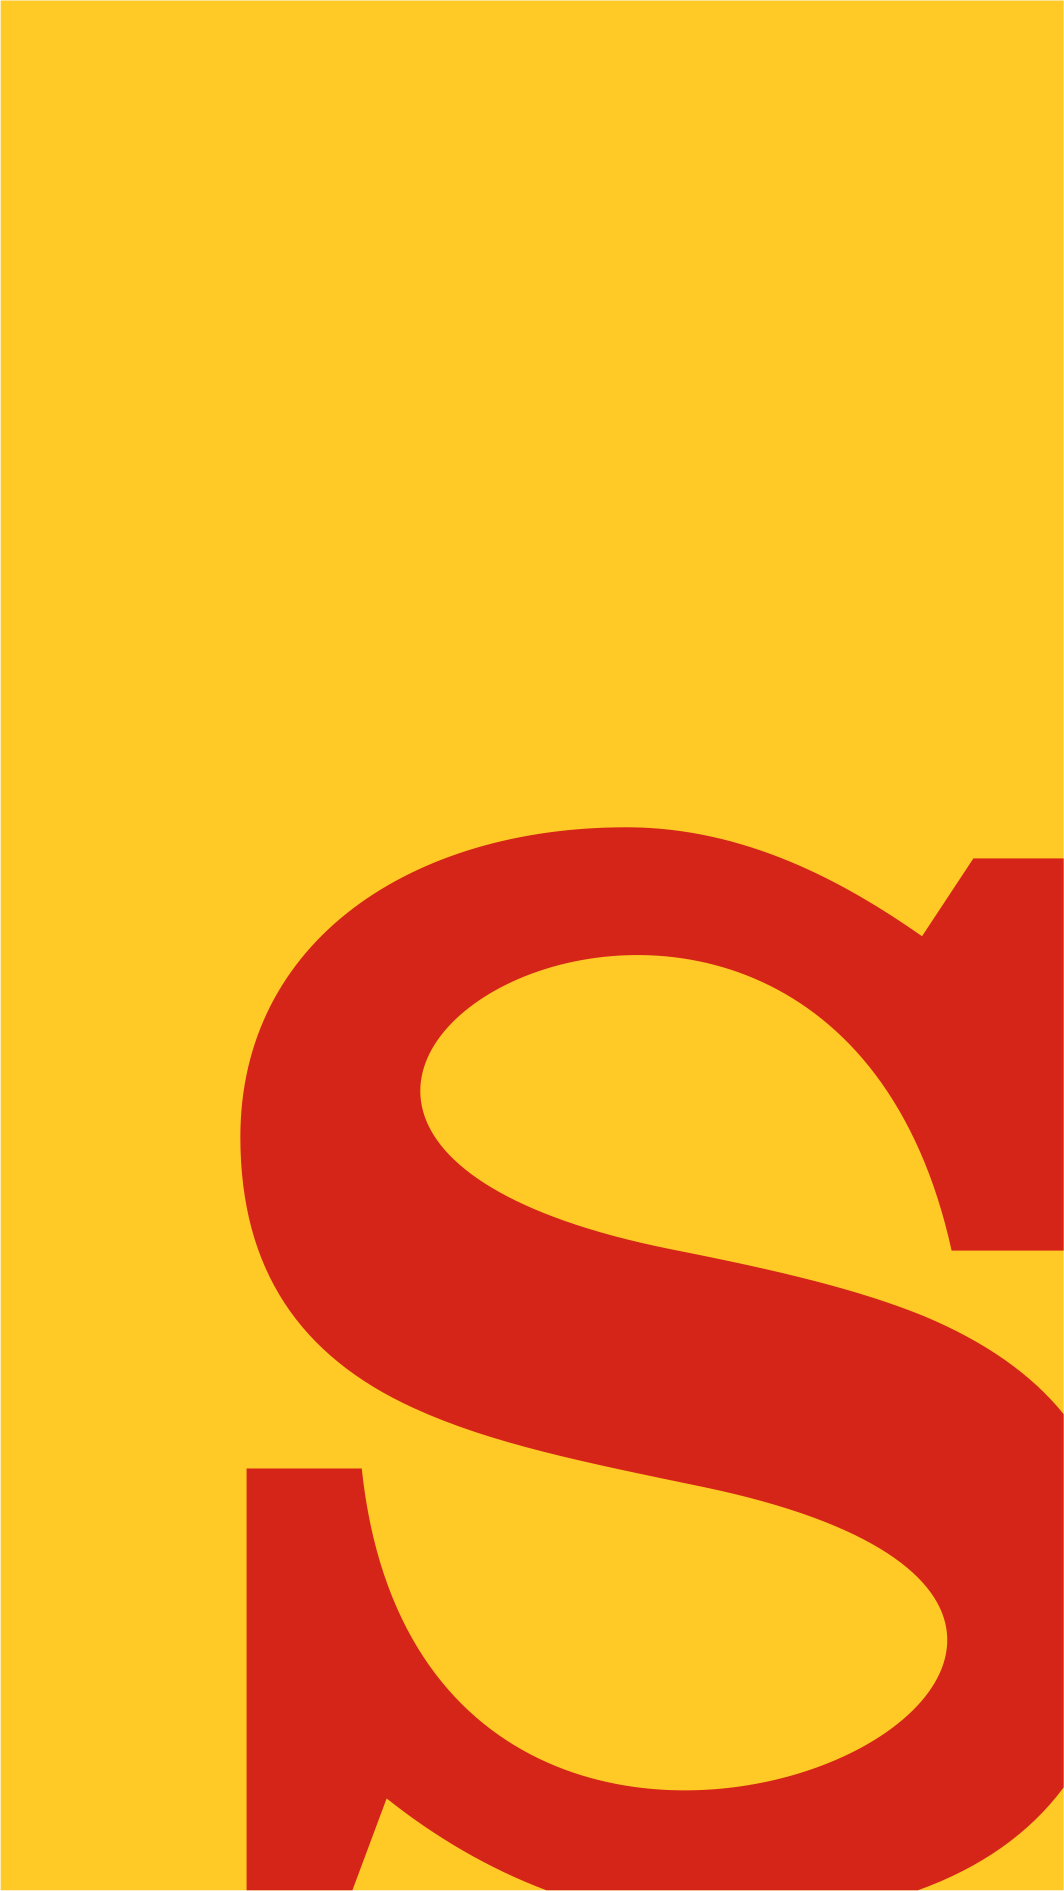
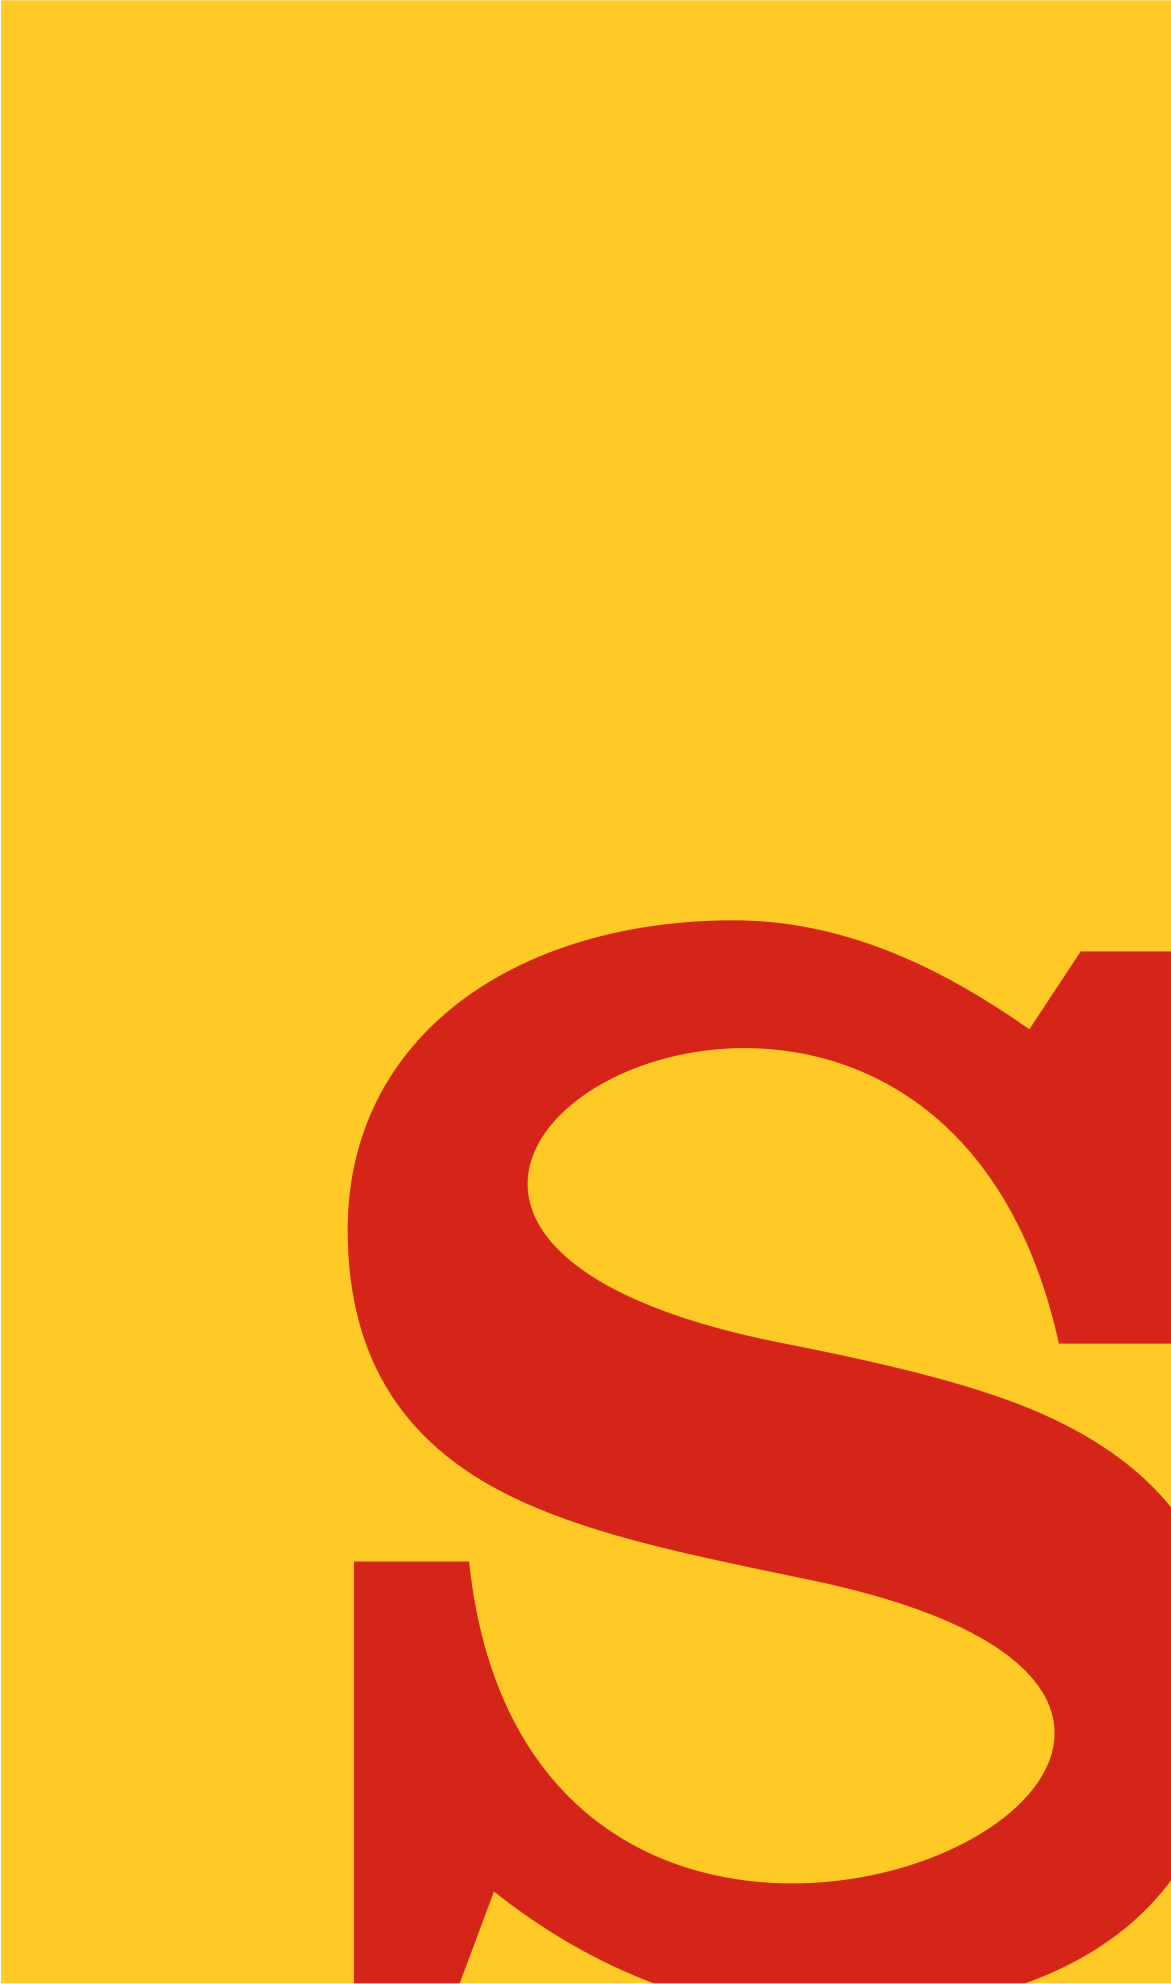
Replace See welcome image

diff --git a/docs/index.html b/docs/index.html
@@ -19,15 +19,15 @@
     <meta name="twitter:description" content="不登录、不上传，在手机本地为照片添加胶片质感。" />
     <meta name="twitter:image" content="https://shawnboom.github.io/s-film/og.png" />
     <title>See.</title>
-    <link rel="apple-touch-icon" href="./apple-touch-icon.png?v=23" />
+    <link rel="apple-touch-icon" href="./apple-touch-icon.png?v=24" />
     <link rel="apple-touch-icon" sizes="120x120" href="./icons/see-apple-touch-icon-120.png" />
     <link rel="apple-touch-icon" sizes="152x152" href="./icons/see-apple-touch-icon-152.png" />
     <link rel="apple-touch-icon" sizes="167x167" href="./icons/see-apple-touch-icon-167.png" />
     <link rel="apple-touch-icon" sizes="180x180" href="./icons/see-apple-touch-icon-180.png" />
     <link rel="icon" type="image/png" sizes="192x192" href="./icons/see-icon-192.png" />
-    <link rel="manifest" href="./manifest.webmanifest?v=23" />
-    <link rel="stylesheet" href="./styles.css?v=23" />
-    <script type="module" src="./app.js?v=23"></script>
+    <link rel="manifest" href="./manifest.webmanifest?v=24" />
+    <link rel="stylesheet" href="./styles.css?v=24" />
+    <script type="module" src="./app.js?v=24"></script>
   </head>
   <body>
     <main class="app-shell">
@@ -38,7 +38,7 @@
         </header>
 
         <section class="photo-stage" id="photo-stage">
-          <img class="welcome-image" id="welcome-image" src="./see-welcome.png" width="1064" height="1891" alt="See." draggable="false" />
+          <img class="welcome-image" id="welcome-image" src="./see-welcome.png" width="1171" height="1984" alt="See." draggable="false" />
           <canvas id="preview" class="preview-canvas" aria-label="照片滤镜预览"></canvas>
           <button class="compare-button" id="compare-button" type="button" hidden>Original</button>
           <button class="delete-button" id="delete-button" type="button" aria-label="删除当前照片" hidden></button>

diff --git a/docs/sw.js b/docs/sw.js
@@ -1,15 +1,15 @@
 "use strict";
 
-const CACHE_NAME = "see-static-v23";
+const CACHE_NAME = "see-static-v24";
 const ROOT = new URL("./", self.registration.scope).href;
 const APP_SHELL = [
   ROOT,
   new URL("./index.html", ROOT).href,
-  new URL("./styles.css?v=23", ROOT).href,
-  new URL("./app.js?v=23", ROOT).href,
-  new URL("./image-engine.js?v=23", ROOT).href,
-  new URL("./manifest.webmanifest?v=23", ROOT).href,
-  new URL("./apple-touch-icon.png?v=23", ROOT).href,
+  new URL("./styles.css?v=24", ROOT).href,
+  new URL("./app.js?v=24", ROOT).href,
+  new URL("./image-engine.js?v=24", ROOT).href,
+  new URL("./manifest.webmanifest?v=24", ROOT).href,
+  new URL("./apple-touch-icon.png?v=24", ROOT).href,
   new URL("./icons/see-apple-touch-icon-120.png", ROOT).href,
   new URL("./icons/see-apple-touch-icon-152.png", ROOT).href,
   new URL("./icons/see-apple-touch-icon-167.png", ROOT).href,

diff --git a/docs/app.js b/docs/app.js
@@ -1,4 +1,4 @@
-import { hashSeed, processPixels } from "./image-engine.js?v=23";
+import { hashSeed, processPixels } from "./image-engine.js?v=24";
 
 const MAX_PHOTOS = 20;
 const PREVIEW_LONG_EDGE = 960;
@@ -516,7 +516,7 @@ window.addEventListener("beforeunload", () => {
 
 if ("serviceWorker" in navigator) {
   window.addEventListener("load", () => {
-    navigator.serviceWorker.register("./sw.js?v=23", { scope: "./" }).catch(() => {});
+    navigator.serviceWorker.register("./sw.js?v=24", { scope: "./" }).catch(() => {});
   });
 }
 

diff --git a/app/pwa-register.tsx b/app/pwa-register.tsx
@@ -5,7 +5,7 @@ import { useEffect } from "react";
 export function PwaRegister() {
   useEffect(() => {
     if ("serviceWorker" in navigator) {
-      navigator.serviceWorker.register("/sw.js?v=13").catch(() => {
+      navigator.serviceWorker.register("/sw.js?v=14").catch(() => {
         // The app remains fully usable online if registration is unavailable.
       });
     }

diff --git a/public/sw.js b/public/sw.js
@@ -1,4 +1,4 @@
-const CACHE_NAME = "see-v13";
+const CACHE_NAME = "see-v14";
 const APP_SHELL = [
   "/",
   "/manifest.webmanifest",
